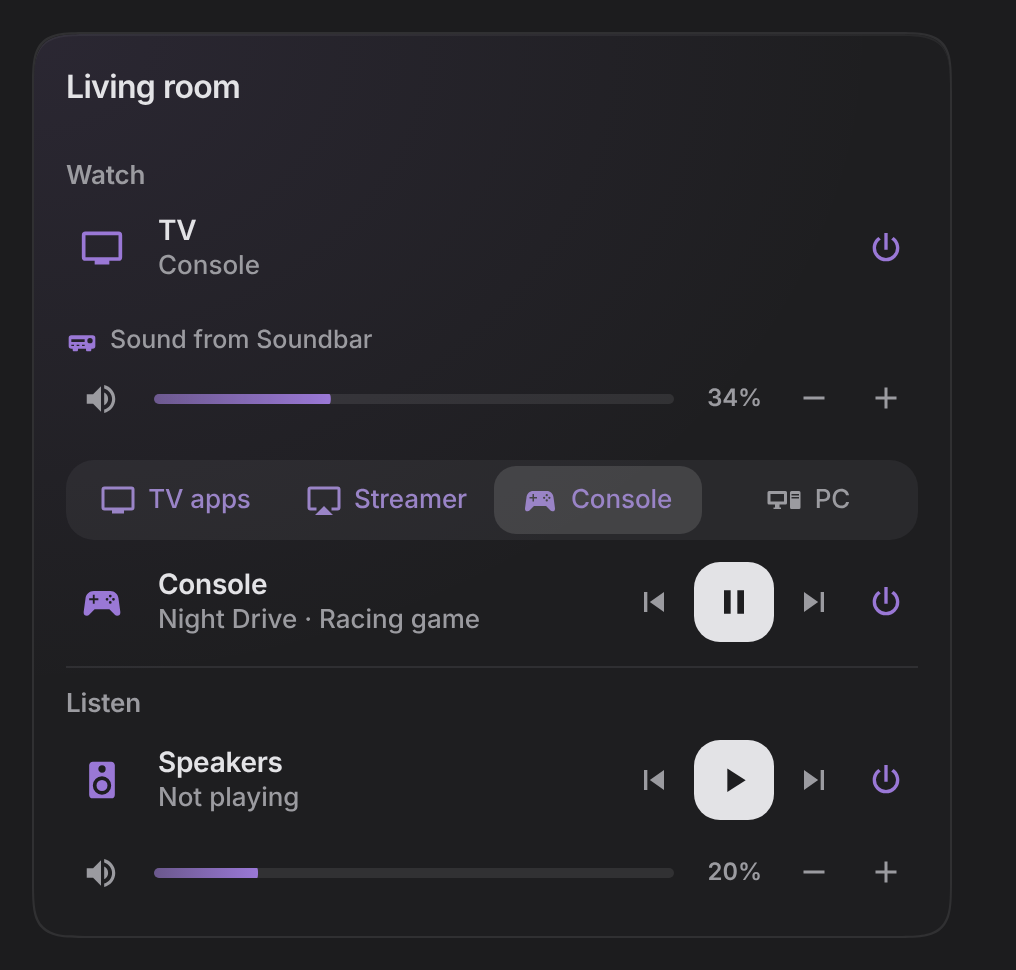
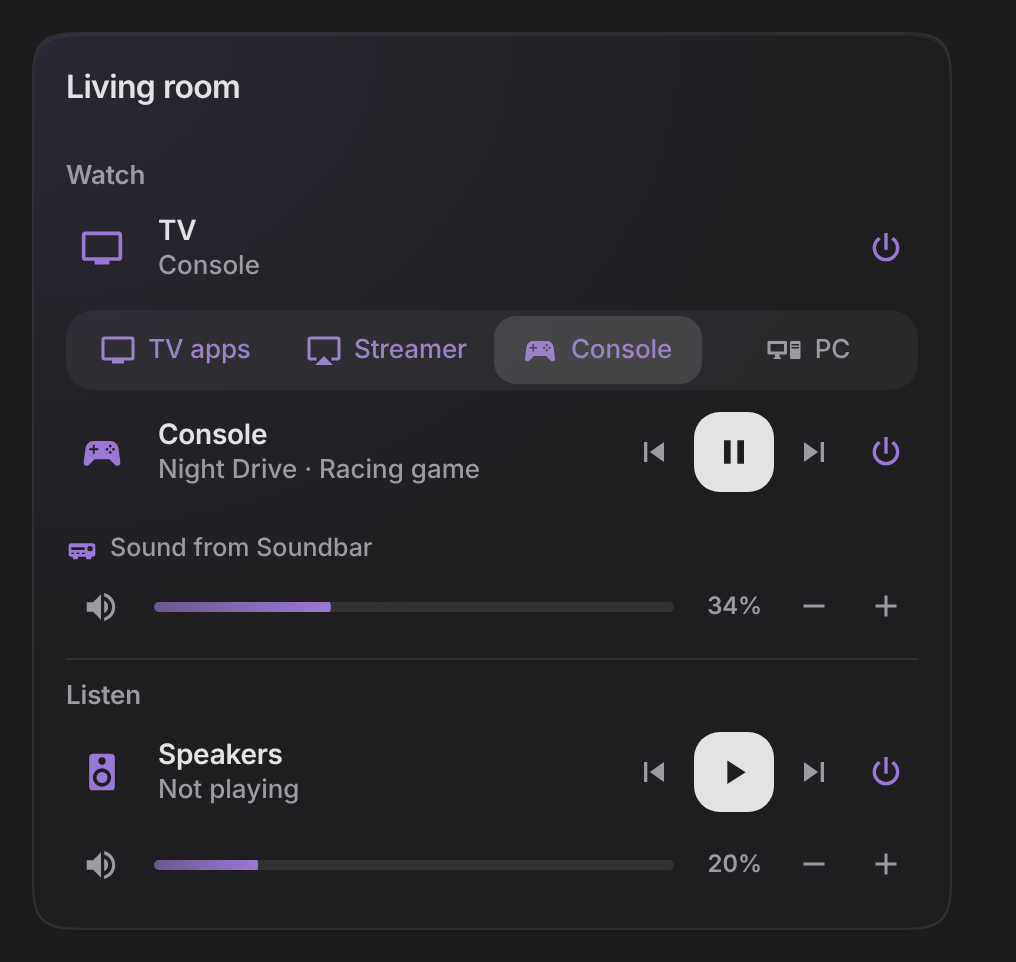
Climate modes as the shared selector; media sound under the inputs, screen_frame option (0.20.2)

diff --git a/dist/savvy-cards.js b/dist/savvy-cards.js
@@ -8572,16 +8572,11 @@ const STYLE = `
     position: relative; display: flex; gap: 2px; margin-top: 12px;
     padding: 3px; border-radius: 14px; background: var(--well);
   }
-  /* the modes: a row of words under a hairline, the chosen one marked by its colour and a dot that slides */
-  .segmented.modes { margin: 14px 0 0; padding: 6px 0 0; border-radius: 0; background: none; border-top: 1px solid var(--line); gap: 0; }
-  /* each mode is its icon and its word on one line; the chosen one's dot sits under it */
-  .modes .seg { flex-direction: row; gap: 6px; height: 46px; padding: 0 2px 6px; font-size: 13px; }
+  /* the modes: the same selector as the media card's sources, each mode its icon and word on one line, the
+     chosen one on a plate that slides between them, tinted in that mode's colour */
+  .segmented.modes { margin: 16px 0 0; }
+  .modes .seg { flex-direction: row; gap: 6px; height: 36px; padding: 0 4px; font-size: 13px; }
   .modes .seg ha-icon { --mdc-icon-size: 18px; }
-  .segmented.modes .pill, .segmented.modes .pill[data-colored] { background: transparent; box-shadow: none; }
-  .segmented.modes .pill[data-colored]::after {
-    content: ""; position: absolute; left: 50%; bottom: 3px; width: 4px; height: 4px; margin-left: -2px; border-radius: 50%;
-    background: var(--sc);
-  }
   .pill {
     position: absolute; top: 3px; bottom: 3px; left: 0; border-radius: 11px;
     background: var(--ha-card-background, var(--card-background-color));
@@ -8594,7 +8589,7 @@ const STYLE = `
   .modes .pill[data-colored] {
     background: color-mix(in oklab, var(--sc) 22%, var(--ha-card-background, var(--card-background-color)));
   }
-  .modes .pill:not([data-colored]) { background: transparent; box-shadow: none; }
+  /* off has no colour of its own: the plain plate, as on the media card */
   .seg {
     position: relative; flex: 1; min-width: 0; height: 34px;
     display: flex; align-items: center; justify-content: center; gap: 6px;
@@ -8607,7 +8602,7 @@ const STYLE = `
   .modes .seg[data-sel] { color: var(--primary-text-color); }
   .modes .seg[data-sel] ha-icon { color: var(--sc, var(--primary-text-color)); }
   /* narrow cards drop the mode labels and keep the icons; the range labels always stay */
-  @container (max-width: 260px) { .modes .seg span { display: none; } .modes .seg { height: 44px; } }
+  @container (max-width: 260px) { .modes .seg span { display: none; } }
   /* five modes with their words need room: a narrower card keeps the words for the chosen one only */
   @container (max-width: 400px) { .modes:has(.seg:nth-child(6)) .seg:not([data-sel]) span { display: none; } }
 
@@ -8684,9 +8679,9 @@ const STYLE = `
   ha-card[data-compact] .now { height: 13px; margin-top: -6.5px; }
   ha-card[data-compact] .segmented { margin-top: 9px; }
   ha-card[data-compact] .seg { height: 30px; font-size: 12.5px; }
-  /* compact keeps the modes on one line: icon and word side by side, the dot under the pair */
-  ha-card[data-compact] .segmented.modes { margin-top: 10px; padding-top: 4px; }
-  ha-card[data-compact] .modes .seg { flex-direction: row; gap: 6px; height: 40px; padding-bottom: 4px; }
+  /* compact keeps the modes on one line: icon and word side by side */
+  ha-card[data-compact] .segmented.modes { margin-top: 10px; }
+  ha-card[data-compact] .modes .seg { flex-direction: row; gap: 6px; height: 32px; }
   ha-card[data-compact] .modes .seg ha-icon { --mdc-icon-size: 17px; }
   @container (max-width: 420px) { ha-card[data-compact] .modes .seg span { display: none; } }
   ha-card[data-compact] .seg ha-icon { --mdc-icon-size: 17px; }
@@ -9545,7 +9540,7 @@ class ClimateCard extends HTMLElement {
         seg.__wired = true;
         this._pressable(seg, new Spring(0, MOTION.press, "x"), () => this._setMode(mode));
       }
-      text(seg.querySelector("span"), this._label(mode));
+      text(seg.querySelector("span"), this._short(mode));
       attr(seg, "aria-pressed", st?.state === mode ? "true" : "false");
       const sel = st?.state === mode;
       attr(seg, "data-sel", sel ? "" : null);
@@ -9580,6 +9575,12 @@ class ClimateCard extends HTMLElement {
     });
     this._segGeom(r, this._sp.rangeX, this._sp.rangeW, this._rangeIdx);
     r.hidden = this._ranges.length < 2;
+  }
+
+  // in the row of modes a shorter word fits: "Fan only" reads "Fan" next to Cool and Heat
+  _short(mode) {
+    const label = this._label(mode);
+    return mode === "fan_only" && /^fan only$/i.test(label) ? "Fan" : label;
   }
 
   _label(mode) {
@@ -15188,10 +15189,10 @@ const STYLE = `${BASE_CSS}
   ha-card[data-glass] .row, ha-card[data-matte] .row { --lx: 28px; }
   .vol { display: flex; align-items: center; gap: 10px; margin-top: 8px; }
   /* a screen with inputs: the screen (its power, its sound, the one volume) frames the inputs below it */
-  #videoBand[data-framed] #frame { order: 1; } #videoBand[data-framed] #nowVol { order: 2; }
-  #videoBand[data-framed] #sources { order: 3; margin-top: 6px; } #videoBand[data-framed] #nowRow { order: 4; }
-  #videoBand[data-framed] #videoCap { order: 0; }
-  #videoBand[data-framed] #nowVol .vol { margin-top: 4px; }
+  /* framed: the screen on top, its inputs and what plays, then its sound and the one volume */
+  #videoBand[data-framed] #videoCap { order: 0; } #videoBand[data-framed] #frame { order: 1; }
+  #videoBand[data-framed] #sources { order: 2; margin-top: 2px; } #videoBand[data-framed] #nowRow { order: 3; }
+  #videoBand[data-framed] #nowVol { order: 4; }
   .via { display: flex; align-items: center; gap: 6px; margin-top: 10px; font-size: 12.5px; line-height: 16px; font-weight: 550; color: var(--secondary-text-color); }
   .via ha-icon { --mdc-icon-size: 16px; display: flex; color: rgb(var(--accent)); }
   .via span { white-space: nowrap; overflow: hidden; text-overflow: ellipsis; }
@@ -15722,7 +15723,7 @@ class SavvyMediaCard extends SavvyCard {
         }
         attr(seg.querySelector("ha-icon"), "icon", this._playerIcon(v, st));
         // under its frame the TV in the picker stands for its own apps
-        const framedTv = c.video.some((x) => x.entity !== v.entity && this._screenOf(x)?.entity === v.entity);
+        const framedTv = c.screen_frame !== false && c.video.some((x) => x.entity !== v.entity && this._screenOf(x)?.entity === v.entity);
         text(seg.querySelector("span"), v.name || (framedTv ? "TV apps" : shortName(this._hass, v.entity, c.area)));
         attr(seg, "data-sel", v === active);
         attr(seg, "data-live", this._isOn(v));
@@ -15771,7 +15772,7 @@ class SavvyMediaCard extends SavvyCard {
   // The screen as a frame: its name, power and what it is on; the volume and sound line sit under it.
   _frame(v) {
     const el = this._el, c = this._config, screen = this._screenOf(v);
-    const framed = !this._compact && !!screen && c.video.some((x) => x.entity !== screen.entity && this._screenOf(x)?.entity === screen.entity);
+    const framed = !this._compact && c.screen_frame !== false && !!screen && c.video.some((x) => x.entity !== screen.entity && this._screenOf(x)?.entity === screen.entity);
     attr(el.videoBand, "data-framed", framed);
     el.frame.hidden = !framed;
     if (!framed) return null;
@@ -16308,6 +16309,7 @@ const EDITOR = defineEditor("savvy-media-card", (hass, c) => [
   playerList("video", "Video sources", "Empty: the area's players (not its speakers)."),
   playerList("audio", "Speakers", "The room's speakers: each with its transport, volume and power; two or more get a picker. Empty: the area's speakers and receivers."),
   { name: "screen", label: "Screen", helper: "The TV the sources play on: it owns their volume. Empty: the one source that is a TV.", selector: { entity: { domain: "media_player" } } },
+  S.bool("screen_frame", "Screen on its own row", "The TV, the input it is on and its power above its inputs. Off: the TV is one more input in the picker.", true),
   { name: "output_source", label: "Soundbar's TV input", helper: "The soundbar's source while it plays the TV, when it isn't called TV, ARC, eARC, HDMI or Optical.", selector: { text: {} } },
   { name: "video_output", label: "Screen's sound output", helper: "The soundbar or receiver the screen sends its sound to (eARC). While it does, the bar is the soundbar's and the soundbar leaves Listen. Empty: the TV plays through itself.", selector: { entity: { domain: "media_player" } } },
   S.grid(S.bool("artwork", "Show artwork", null, true), S.bool("volume_buttons", "Volume buttons", null, true)),

diff --git a/src/cards/climate.js b/src/cards/climate.js
@@ -237,16 +237,11 @@ const STYLE = `
     position: relative; display: flex; gap: 2px; margin-top: 12px;
     padding: 3px; border-radius: 14px; background: var(--well);
   }
-  /* the modes: a row of words under a hairline, the chosen one marked by its colour and a dot that slides */
-  .segmented.modes { margin: 14px 0 0; padding: 6px 0 0; border-radius: 0; background: none; border-top: 1px solid var(--line); gap: 0; }
-  /* each mode is its icon and its word on one line; the chosen one's dot sits under it */
-  .modes .seg { flex-direction: row; gap: 6px; height: 46px; padding: 0 2px 6px; font-size: 13px; }
+  /* the modes: the same selector as the media card's sources, each mode its icon and word on one line, the
+     chosen one on a plate that slides between them, tinted in that mode's colour */
+  .segmented.modes { margin: 16px 0 0; }
+  .modes .seg { flex-direction: row; gap: 6px; height: 36px; padding: 0 4px; font-size: 13px; }
   .modes .seg ha-icon { --mdc-icon-size: 18px; }
-  .segmented.modes .pill, .segmented.modes .pill[data-colored] { background: transparent; box-shadow: none; }
-  .segmented.modes .pill[data-colored]::after {
-    content: ""; position: absolute; left: 50%; bottom: 3px; width: 4px; height: 4px; margin-left: -2px; border-radius: 50%;
-    background: var(--sc);
-  }
   .pill {
     position: absolute; top: 3px; bottom: 3px; left: 0; border-radius: 11px;
     background: var(--ha-card-background, var(--card-background-color));
@@ -259,7 +254,7 @@ const STYLE = `
   .modes .pill[data-colored] {
     background: color-mix(in oklab, var(--sc) 22%, var(--ha-card-background, var(--card-background-color)));
   }
-  .modes .pill:not([data-colored]) { background: transparent; box-shadow: none; }
+  /* off has no colour of its own: the plain plate, as on the media card */
   .seg {
     position: relative; flex: 1; min-width: 0; height: 34px;
     display: flex; align-items: center; justify-content: center; gap: 6px;
@@ -272,7 +267,7 @@ const STYLE = `
   .modes .seg[data-sel] { color: var(--primary-text-color); }
   .modes .seg[data-sel] ha-icon { color: var(--sc, var(--primary-text-color)); }
   /* narrow cards drop the mode labels and keep the icons; the range labels always stay */
-  @container (max-width: 260px) { .modes .seg span { display: none; } .modes .seg { height: 44px; } }
+  @container (max-width: 260px) { .modes .seg span { display: none; } }
   /* five modes with their words need room: a narrower card keeps the words for the chosen one only */
   @container (max-width: 400px) { .modes:has(.seg:nth-child(6)) .seg:not([data-sel]) span { display: none; } }
 
@@ -349,9 +344,9 @@ const STYLE = `
   ha-card[data-compact] .now { height: 13px; margin-top: -6.5px; }
   ha-card[data-compact] .segmented { margin-top: 9px; }
   ha-card[data-compact] .seg { height: 30px; font-size: 12.5px; }
-  /* compact keeps the modes on one line: icon and word side by side, the dot under the pair */
-  ha-card[data-compact] .segmented.modes { margin-top: 10px; padding-top: 4px; }
-  ha-card[data-compact] .modes .seg { flex-direction: row; gap: 6px; height: 40px; padding-bottom: 4px; }
+  /* compact keeps the modes on one line: icon and word side by side */
+  ha-card[data-compact] .segmented.modes { margin-top: 10px; }
+  ha-card[data-compact] .modes .seg { flex-direction: row; gap: 6px; height: 32px; }
   ha-card[data-compact] .modes .seg ha-icon { --mdc-icon-size: 17px; }
   @container (max-width: 420px) { ha-card[data-compact] .modes .seg span { display: none; } }
   ha-card[data-compact] .seg ha-icon { --mdc-icon-size: 17px; }
@@ -1210,7 +1205,7 @@ class ClimateCard extends HTMLElement {
         seg.__wired = true;
         this._pressable(seg, new Spring(0, MOTION.press, "x"), () => this._setMode(mode));
       }
-      text(seg.querySelector("span"), this._label(mode));
+      text(seg.querySelector("span"), this._short(mode));
       attr(seg, "aria-pressed", st?.state === mode ? "true" : "false");
       const sel = st?.state === mode;
       attr(seg, "data-sel", sel ? "" : null);
@@ -1245,6 +1240,12 @@ class ClimateCard extends HTMLElement {
     });
     this._segGeom(r, this._sp.rangeX, this._sp.rangeW, this._rangeIdx);
     r.hidden = this._ranges.length < 2;
+  }
+
+  // in the row of modes a shorter word fits: "Fan only" reads "Fan" next to Cool and Heat
+  _short(mode) {
+    const label = this._label(mode);
+    return mode === "fan_only" && /^fan only$/i.test(label) ? "Fan" : label;
   }
 
   _label(mode) {

diff --git a/src/cards/media.js b/src/cards/media.js
@@ -102,10 +102,10 @@ const STYLE = `${BASE_CSS}
   ha-card[data-glass] .row, ha-card[data-matte] .row { --lx: 28px; }
   .vol { display: flex; align-items: center; gap: 10px; margin-top: 8px; }
   /* a screen with inputs: the screen (its power, its sound, the one volume) frames the inputs below it */
-  #videoBand[data-framed] #frame { order: 1; } #videoBand[data-framed] #nowVol { order: 2; }
-  #videoBand[data-framed] #sources { order: 3; margin-top: 6px; } #videoBand[data-framed] #nowRow { order: 4; }
-  #videoBand[data-framed] #videoCap { order: 0; }
-  #videoBand[data-framed] #nowVol .vol { margin-top: 4px; }
+  /* framed: the screen on top, its inputs and what plays, then its sound and the one volume */
+  #videoBand[data-framed] #videoCap { order: 0; } #videoBand[data-framed] #frame { order: 1; }
+  #videoBand[data-framed] #sources { order: 2; margin-top: 2px; } #videoBand[data-framed] #nowRow { order: 3; }
+  #videoBand[data-framed] #nowVol { order: 4; }
   .via { display: flex; align-items: center; gap: 6px; margin-top: 10px; font-size: 12.5px; line-height: 16px; font-weight: 550; color: var(--secondary-text-color); }
   .via ha-icon { --mdc-icon-size: 16px; display: flex; color: rgb(var(--accent)); }
   .via span { white-space: nowrap; overflow: hidden; text-overflow: ellipsis; }
@@ -636,7 +636,7 @@ class SavvyMediaCard extends SavvyCard {
         }
         attr(seg.querySelector("ha-icon"), "icon", this._playerIcon(v, st));
         // under its frame the TV in the picker stands for its own apps
-        const framedTv = c.video.some((x) => x.entity !== v.entity && this._screenOf(x)?.entity === v.entity);
+        const framedTv = c.screen_frame !== false && c.video.some((x) => x.entity !== v.entity && this._screenOf(x)?.entity === v.entity);
         text(seg.querySelector("span"), v.name || (framedTv ? "TV apps" : shortName(this._hass, v.entity, c.area)));
         attr(seg, "data-sel", v === active);
         attr(seg, "data-live", this._isOn(v));
@@ -685,7 +685,7 @@ class SavvyMediaCard extends SavvyCard {
   // The screen as a frame: its name, power and what it is on; the volume and sound line sit under it.
   _frame(v) {
     const el = this._el, c = this._config, screen = this._screenOf(v);
-    const framed = !this._compact && !!screen && c.video.some((x) => x.entity !== screen.entity && this._screenOf(x)?.entity === screen.entity);
+    const framed = !this._compact && c.screen_frame !== false && !!screen && c.video.some((x) => x.entity !== screen.entity && this._screenOf(x)?.entity === screen.entity);
     attr(el.videoBand, "data-framed", framed);
     el.frame.hidden = !framed;
     if (!framed) return null;
@@ -1222,6 +1222,7 @@ const EDITOR = defineEditor("savvy-media-card", (hass, c) => [
   playerList("video", "Video sources", "Empty: the area's players (not its speakers)."),
   playerList("audio", "Speakers", "The room's speakers: each with its transport, volume and power; two or more get a picker. Empty: the area's speakers and receivers."),
   { name: "screen", label: "Screen", helper: "The TV the sources play on: it owns their volume. Empty: the one source that is a TV.", selector: { entity: { domain: "media_player" } } },
+  S.bool("screen_frame", "Screen on its own row", "The TV, the input it is on and its power above its inputs. Off: the TV is one more input in the picker.", true),
   { name: "output_source", label: "Soundbar's TV input", helper: "The soundbar's source while it plays the TV, when it isn't called TV, ARC, eARC, HDMI or Optical.", selector: { text: {} } },
   { name: "video_output", label: "Screen's sound output", helper: "The soundbar or receiver the screen sends its sound to (eARC). While it does, the bar is the soundbar's and the soundbar leaves Listen. Empty: the TV plays through itself.", selector: { entity: { domain: "media_player" } } },
   S.grid(S.bool("artwork", "Show artwork", null, true), S.bool("volume_buttons", "Volume buttons", null, true)),

diff --git a/README.md b/README.md
@@ -664,8 +664,9 @@ so one box never shows two bars; with the TV off it is back in Listen, for music
 guessed: without `video_output` the TV plays through itself. Speakers sit under the screen, each with its own
 volume, and two or more get a picker. With both kinds on the card, the bands are captioned Watch and Listen.
 
-With inputs, the screen frames them: the TV's name, the input it is on and its power at the top, its sound
-and the one volume under it, then the inputs (the TV itself as "TV apps") and what the picked one is playing.
+With inputs, the screen frames them: the TV's name, the input it is on and its power at the top, then the
+inputs (the TV itself as "TV apps"), what the picked one is playing, and the screen's sound and its one volume.
+`screen_frame: false` keeps the TV as one more input in the picker instead.
 Give each input its `input` (`HDMI 2`) and the picker follows the TV, even when you switch with the remote,
 and picking an input switches the TV to it.
 
@@ -688,6 +689,7 @@ presets, text to speech and an alarm clock. Volume moves only on a sideways drag
 | `layout` | `full` or `compact` | `full` | `compact`: one row with what is playing, its transport and the volume. |
 | `video` | list | found | The video sources in the picker (TVs, consoles, streamers, PCs): `{ entity, name, icon, power, screen, input, output, volume, artwork, sound_select, sound_outputs }`. `power`: a switch that turns it on. `screen`: the TV it plays on, in a room with two. `input`: the TV's input it is on (`HDMI 2`): the picker follows what is really on screen, and picking it switches the TV. `output`: on a screen, the soundbar it sends its sound to; it wins over `video_output`. `volume`: a helper that holds its real volume. `artwork`: a binary sensor that says its artwork is worth showing. `sound_select`: a select entity that switches where its sound goes (an LG TV needs none, see below). `sound_outputs`: the LG outputs to list, or `false` for none. |
 | `audio` | list | found | The speakers, under the sources with their own transport and volume; two or more get a picker. Same item format as `video`. |
+| `screen_frame` | boolean | `true` | The screen on its own row above its inputs. `false`: the TV is one more input in the picker. |
 | `screen` | entity | the first TV among `video` | The TV the video sources play on. It owns their volume. Every TV is its own screen; any other source plays on this one unless its own `screen` says otherwise (a room with two TVs). |
 | `video_output` | entity | none | The soundbar or receiver the main screen sends its sound to (eARC). While it does (an LG says so; another TV while the soundbar is on, and the soundbar is on its TV input), the bar is the soundbar's, and the soundbar leaves Listen. The soundbar playing something of its own (Spotify, Bluetooth) is not the TV's sound: it stays in Listen. A second TV uses only its own `output`. Empty: the TV plays through itself. |
 | `output_source` | string | TV, ARC, eARC, HDMI, optical | The soundbar's source while it plays the TV, when it has another name. |

diff --git a/CHANGELOG.md b/CHANGELOG.md
@@ -18,8 +18,9 @@
 - **Media: the screen frames its inputs.** The TV's name, the input it is on and its power sit at the top with
   its sound and the one volume; the inputs follow (the TV itself as "TV apps"), then what the picked one plays.
   A source's `input` (`HDMI 2`) makes the picker follow the TV, even when switched with the remote, and picking
-  it switches the TV. With `screen` named, everything else plays on it, whatever it calls itself.
-- **Climate:** each mode is its icon and its word on one line. New `steppers: right` puts − and + together on
+  it switches the TV. With `screen` named, everything else plays on it, whatever it calls itself. The sound and
+  its volume sit under the inputs; `screen_frame: false` keeps the TV as one more input instead.
+- **Climate:** the modes are the same sliding selector as the media card's sources, each mode its icon and word on one line, the chosen one on a plate in its colour ("Fan only" reads "Fan" there). New `steppers: right` puts − and + together on
   the right, the number on the left (`sides`, either side of the number, stays the default).
 - **Grid heights:** in a sections view every card is a whole number of grid rows tall (56px rows, 8px between),
   so cards side by side end together instead of a few pixels apart. Cards given a number of rows keep it;
